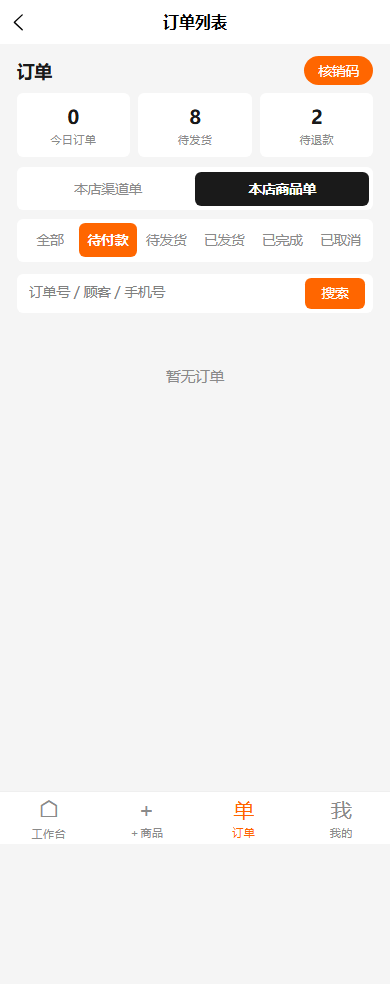
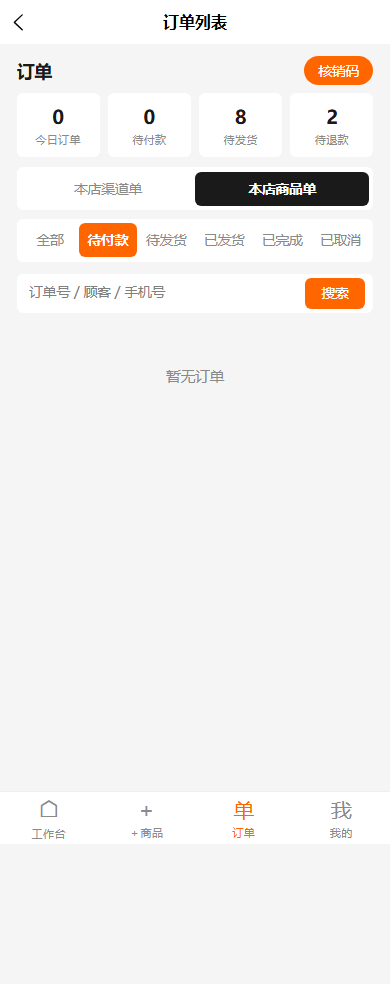
docs(webadmin): 手册补 8.4.2 缺失补齐章节及验收截图

diff --git a/web-admin/docs/webadmin-bugfix-manual/webadmin-bugfix-manual.html b/web-admin/docs/webadmin-bugfix-manual/webadmin-bugfix-manual.html
@@ -360,6 +360,21 @@ flowchart TD
       <figure style="margin:0;flex:1;min-width:300px;"><img src="assets/order_actions_mobile_390.png" style="width:100%;border:1px solid var(--line);border-radius:10px;" /><figcaption style="font-size:12px;color:var(--muted);margin-top:6px;">手机 390×844 · 商品单带真实商品缩略图（催付按钮随待付款单出现）</figcaption></figure>
       <figure style="margin:0;flex:1;min-width:360px;"><img src="assets/order_actions_desk_1440.png" style="width:100%;border:1px solid var(--line);border-radius:10px;" /><figcaption style="font-size:12px;color:var(--muted);margin-top:6px;">桌面 1440×900 · 商品单表格（缩略图在商品行展示）</figcaption></figure>
     </div>
+
+    <h4>8.4.2 补齐缺失：桌面缩略图 / 统计4卡 / 受限提示 / 交互补强</h4>
+    <p>在 8.4.1 基础上进一步补齐桌面与商品单视图的体验缺口，覆盖四类改动（部署后经线上 E2E 双视口回归验证，结果见下验收图）。</p>
+    <p><strong>① 桌面商品列表行补商品缩略图：</strong>之前桌面表格商品行只显示文本；现在与手机卡片一致，在商品行左侧渲染 <code class="mono">productId</code> 批量回填的 <code class="mono">featuredAsset.preview</code> 缩略图，无图商品回退为灰底占位块（<code class="mono">.dg</code> 行内）。线上回归桌面 1440 视口 <code class="mono">DG_ROWS=18</code>、其中 <code class="mono">DG_IMGS=4</code> 为真实商品图，其余为占位。</p>
+    <p><strong>② 顶栏统计改为 4 卡：</strong>headbar 统计由原先的卡片改为 <code class="mono">今日订单 / 待付款 / 待发货 / 待退款</code> 四张 (<code class="mono">.stat</code>) 卡，采用<strong>商品单跨渠道概览</strong>口径（按 <code class="mono">myShopOrders</code> 归集本店全部订单）。点击卡片直达对应状态 tab（全部/待付款/待发货/待退款）。线上 <code class="mono">STAT_4=4</code> 双视口均成立。</p>
+    <p><strong>③ 商品单（跨渠道归集）视图受限提示：</strong>「本店商品单」是把本店订单按商品 <code class="mono">shopId</code> 归集、跨渠道聚合的视图；其中发起的「发货/详情」受 Vendure 渠道隔离限制、可能无法打开目标单。现点击「发货/详情」会弹受限提示，引导运营切到「本店渠道单」操作；「催付」复制的纯前端功能不受影响，仍可正常复制文案。</p>
+    <p><strong>④ 二次确认 + 一键复制：</strong>发货动作在提交前弹二次确认（防止误发）；点击订单号调用 <code class="mono">uni.setClipboardData</code> 一键复制单号并 toast「订单号已复制」。线上桌面 <code class="mono">COPY_OK=True</code>（点击表头外订单号单元格，body 出现复制 toast）。</p>
+    <div style="display:flex;flex-wrap:wrap;gap:20px;align-items:flex-start;">
+      <figure style="margin:0;flex:1;min-width:300px;"><img src="assets/order_actions_mobile_390.png" style="width:100%;border:1px solid var(--line);border-radius:10px;" /><figcaption style="font-size:12px;color:var(--muted);margin-top:6px;">手机 390×844 · 4 统计卡 + 商品单缩略图（ALL_OK 通过）</figcaption></figure>
+      <figure style="margin:0;flex:1;min-width:360px;"><img src="assets/order_actions_desk_1440.png" style="width:100%;border:1px solid var(--line);border-radius:10px;" /><figcaption style="font-size:12px;color:var(--muted);margin-top:6px;">桌面 1440×900 · 表格商品缩略图 + 统计4卡（ALL_OK 通过）</figcaption></figure>
+    </div>
+    <div class="callout ok">
+      <h4>线上验收结论</h4>
+      <p>手机 390×844 与桌面 1440×900 两个视口 <code class="mono">ALL_OK</code> 均 <code class="mono">True</code>；<code class="mono">STAT_4=4</code>、桌面 <code class="mono">DG_ROWS=18</code>（缩略图行出现）、<code class="mono">COPY_OK=True</code>（复制 toast）双视口成立。说明:「待签约/待催付」计数与 <code class="mono">REMIND</code> 催付按钮依赖线上待付款单的存在——t1 当前无待付款单故为 0，属正常数据依赖、非缺陷；缩略图取真实图数取决于商品是否配置封面图，无图回退占位亦属正常。</p>
+    </div>
   </section>
 
   <footer>vShop · web-admin 后台修复操作手册 · 生成于 2026-09-04 · 适用于 Nuxt/Vue3 uni-app H5 前端</footer>
